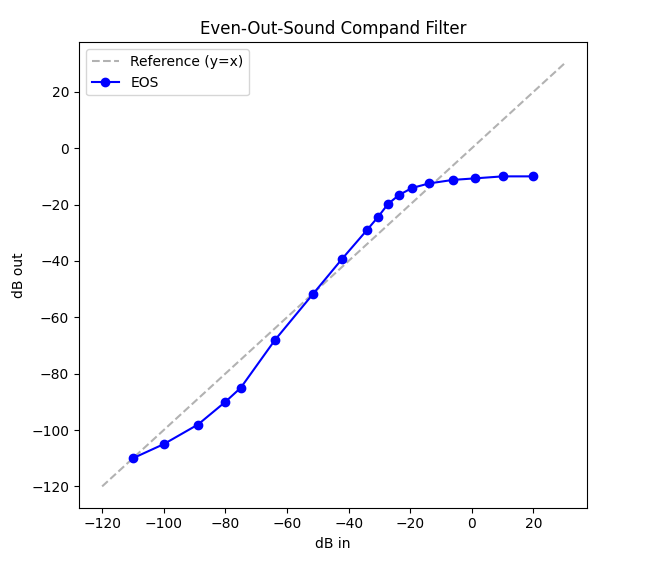
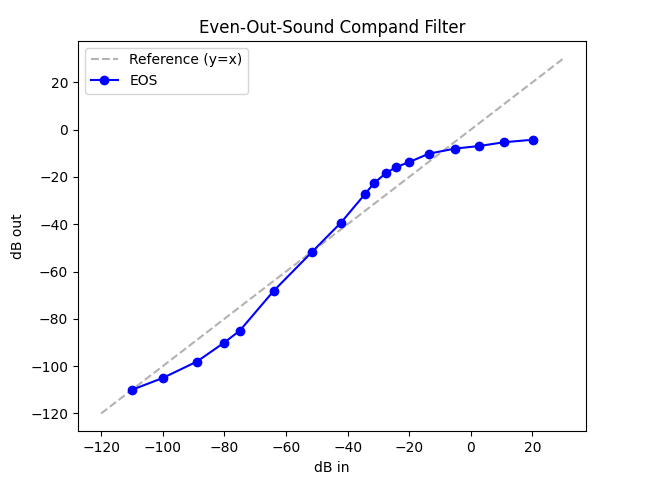
Tweaked EOS filter and updated files

diff --git a/scripts/eos-filter-tweaker/eos-filter-tweaker.py b/scripts/eos-filter-tweaker/eos-filter-tweaker.py
@@ -1,0 +1,248 @@
+import re
+import tkinter as tk
+from tkinter import ttk
+import matplotlib
+
+matplotlib.use("TkAgg")
+
+import numpy as np
+import matplotlib.pyplot as plt
+from matplotlib.backends.backend_tkagg import FigureCanvasTkAgg
+
+# --------------------------------------------------------------------
+# 1) Original compand filter string:
+# --------------------------------------------------------------------
+# compand_filter_original = (
+#     'compand='
+#     'attacks=0:'
+#     'decays=0.3:'
+#     'soft-knee=6:'
+#     'points='
+#     '-110/-110|'
+#     '-100/-105|'
+#     '-90/-95|'
+#     '-80/-90|'
+#     '-75/-85|'
+#     '-70/-65|'
+#     '-60/-55|'
+#     '-50/-40|'
+#     '-45/-35|'
+#     '-35/-28|'
+#     '-30/-24|'
+#     '-27/-16|'
+#     '-20/-14|'
+#     '-10/-12|'
+#     '-5/-10|'
+#     '0/-10|'
+#     '10/-10|'
+#     '20/-10'
+#     ':gain=4'
+# )
+compand_filter_original = (
+    'compand=attacks=0:decays=0.3:soft-knee=6:points=-110.00/-110.00|-100.00/-105.00|-88.88/-98.04|-80.00/-90.00|-75.00/-85.00|-63.89/-68.04|-51.56/-51.73|-42.14/-39.32|-34.35/-27.25|-31.43/-22.64|-27.54/-18.38|-24.29/-15.90|-20.07/-13.77|-13.91/-12.51|-6.12/-11.25|1.02/-10.71|10.00/-10.00|20.00/-10.00:gain=0'
+)
+
+
+# --------------------------------------------------------------------
+# 2) Parse the string to get the points (dB_in, dB_out).
+#    We'll store them as a list of (x, y).
+# --------------------------------------------------------------------
+def parse_compand_filter(compand_str):
+    """
+    Extract the 'points=' portion from the compand string and return a list of (x, y) floats.
+    """
+    # Example: "points=-110/-110|-100/-105|...:gain=4"
+    # We'll find the substring that starts with "points=" and goes until the next ':' or end of string
+    points_pattern = r'points=([^:]+)'  # capture everything after 'points=' until next ':'
+    match = re.search(points_pattern, compand_str)
+    if not match:
+        return []
+
+    points_str = match.group(1)
+    # points_str looks like: "-110/-110|-100/-105|-90/-95|..."
+
+    # Now split by '|'
+    pairs = points_str.split('|')
+    xy = []
+    for pair in pairs:
+        if '/' in pair:
+            x_str, y_str = pair.split('/')
+            try:
+                x_val = float(x_str)
+                y_val = float(y_str)
+                xy.append((x_val, y_val))
+            except ValueError:
+                pass
+    return xy
+
+
+# --------------------------------------------------------------------
+# 3) Rebuild the compand string from a list of (x, y).
+#    We preserve the 'attacks=0:decays=0.3:soft-knee=6' etc. from the original,
+#    but change the "points=..." section.
+# --------------------------------------------------------------------
+def rebuild_compand_filter(xy_points, original_str):
+    """
+    Rebuild the compand filter string, replacing only the "points=" section
+    with updated x/y pairs from xy_points.
+    """
+    # We'll keep everything up to 'points=' the same,
+    # and everything after the original 'points=...some...:???' also the same.
+    # But we'll rebuild the actual points portion from xy_points.
+
+    # 1) Extract prefix (everything before 'points=')
+    prefix_pattern = r'(.*points=)'
+    prefix_match = re.search(prefix_pattern, original_str)
+    if prefix_match:
+        prefix = prefix_match.group(1)
+    else:
+        prefix = ""
+
+    # 2) Extract suffix (everything after the points list)
+    #    That is, find the substring starting from the first ':'
+    #    AFTER the "points=..."
+    #    A quick trick is to find 'points=' plus the actual pairs, then see what's left.
+    points_pattern = r'points=([^:]+)(.*)'
+    points_match = re.search(points_pattern, original_str)
+    if points_match:
+        # The second group starts with the next ':' (like ":gain=4")
+        suffix = points_match.group(2)
+    else:
+        suffix = ""
+
+    # 3) Build new points string
+    #    Format each pair as "x/y", then join with '|'
+    new_points_str = "|".join(f"{x:.2f}/{y:.2f}" for x, y in xy_points)
+
+    # 4) Combine everything
+    new_compand = f"{prefix}{new_points_str}{suffix}"
+    return new_compand
+
+
+# --------------------------------------------------------------------
+# 4) A small helper to find the index of the closest point to a given (mouse) x,y
+# --------------------------------------------------------------------
+def find_closest_point(xy_points, x_click, y_click):
+    """
+    Return the index of the point in xy_points that is closest to (x_click, y_click).
+    """
+    dists = [(x - x_click) ** 2 + (y - y_click) ** 2 for x, y in xy_points]
+    min_idx = np.argmin(dists)
+    return min_idx
+
+
+# --------------------------------------------------------------------
+# 5) GUI / Plot / Interaction
+# --------------------------------------------------------------------
+class CompandGUI(tk.Tk):
+    def __init__(self, compand_str):
+        super().__init__()
+        self.title("Compand Filter Editor")
+
+        # Parse initial points
+        self.xy_points = parse_compand_filter(compand_str)
+        self.original_compand = compand_str
+
+        # For dragging
+        self.dragging_point_idx = None
+
+        # Create figure and axis
+        self.fig, self.ax = plt.subplots(figsize=(6, 4), dpi=100)
+        self.ax.set_title("Even-Out-Sound Compand Filter")
+        self.ax.set_xlabel("dB in")
+        self.ax.set_ylabel("dB out")
+
+        # Plot a simple y=x line as "linear" reference in the background
+        # (Feel free to replace with your own reference if needed)
+        x_vals = np.linspace(min(x for x, _ in self.xy_points) - 10,
+                             max(x for x, _ in self.xy_points) + 10, 200)
+        self.ax.plot(x_vals, x_vals, 'k--', alpha=0.3, label="Reference (y=x)")
+
+        # Plot the compand curve
+        self.line, = self.ax.plot(
+            [p[0] for p in self.xy_points],
+            [p[1] for p in self.xy_points],
+            'bo-', label="EOS"
+        )
+
+        self.ax.legend(loc="best")
+        self.canvas = FigureCanvasTkAgg(self.fig, master=self)
+        self.canvas.draw()
+        self.canvas.get_tk_widget().pack(side=tk.TOP, fill=tk.BOTH, expand=1)
+
+        # Bind matplotlib events
+        self.cid_press = self.canvas.mpl_connect('button_press_event', self.on_click)
+        self.cid_release = self.canvas.mpl_connect('button_release_event', self.on_release)
+        self.cid_motion = self.canvas.mpl_connect('motion_notify_event', self.on_motion)
+
+        # Text box to display the updated compand filter
+        self.text_var = tk.StringVar()
+        self.text_var.set(self.original_compand)
+
+        # Use a ttk.Entry or a scrolled Text for display (here we use just a read-only text)
+        self.frame_bottom = ttk.Frame(self)
+        self.frame_bottom.pack(side=tk.BOTTOM, fill=tk.X)
+        ttk.Label(self.frame_bottom, text="Updated Compand Filter:").pack(anchor=tk.W, pady=2)
+
+        self.text_box = tk.Text(self.frame_bottom, height=3, wrap=tk.NONE)
+        self.text_box.pack(fill=tk.X, padx=5)
+        # Insert initial value
+        self.text_box.insert("1.0", self.original_compand)
+        # Make it read-only by disabling 'insert' and 'delete'
+        self.text_box.configure(state="disabled")
+
+    def on_click(self, event):
+        """When mouse is clicked, check if it's close to a point. If so, set up dragging."""
+        if event.inaxes != self.ax:
+            return
+        x_click = event.xdata
+        y_click = event.ydata
+        self.dragging_point_idx = find_closest_point(self.xy_points, x_click, y_click)
+
+    def on_release(self, event):
+        """When mouse is released, finalize dragging."""
+        if event.inaxes != self.ax:
+            return
+        self.dragging_point_idx = None
+
+    def on_motion(self, event):
+        """When mouse moves and we are dragging a point, update that point and redraw."""
+        if self.dragging_point_idx is None:
+            return
+        if event.inaxes != self.ax:
+            return
+
+        x_new = event.xdata
+        y_new = event.ydata
+        if x_new is None or y_new is None:
+            return
+
+        # Update the point's coordinates
+        self.xy_points[self.dragging_point_idx] = (x_new, y_new)
+
+        # Redraw the line
+        self.line.set_xdata([p[0] for p in self.xy_points])
+        self.line.set_ydata([p[1] for p in self.xy_points])
+
+        self.ax.relim()
+        self.ax.autoscale_view()
+        self.canvas.draw()
+
+        # Rebuild and update compand string
+        new_compand_str = rebuild_compand_filter(self.xy_points, self.original_compand)
+        self.update_compand_textbox(new_compand_str)
+
+    def update_compand_textbox(self, new_str):
+        """Updates the text box with the new compand string."""
+        self.text_box.configure(state="normal")
+        self.text_box.delete("1.0", tk.END)
+        self.text_box.insert("1.0", new_str)
+        self.text_box.configure(state="disabled")
+
+
+# --------------------------------------------------------------------
+# 6) Main
+# --------------------------------------------------------------------
+if __name__ == "__main__":
+    app = CompandGUI(compand_filter_original)
+    app.mainloop()

diff --git a/scripts/audio.py b/scripts/audio.py
@@ -144,12 +144,12 @@ def get_pan_filter(source_channels, layout):
         # Similar logic as before: boost FC, mix some FC into FL/FR, reduce surrounds.
         return (
             'pan=5.1|'
-            'FL=0.4*FL|'
-            'FR=0.4*FR|'
+            'FL=0.3*FL|'
+            'FR=0.3*FR|'
             'FC=0.7*FC|'
-            'LFE=0.3*LFE|'
-            'BL=0.3*BL|'
-            'BR=0.3*BR'
+            'LFE=0.2*LFE|'
+            'BL=0.2*BL|'
+            'BR=0.2*BR'
         )
 
     elif layout == '7.1':
@@ -158,14 +158,14 @@ def get_pan_filter(source_channels, layout):
         # keep LFE as is, and reduce the volume of surrounds and sides.
         return (
             'pan=7.1|'
-            'FL=0.4*FL|'
-            'FR=0.4*FR|'
+            'FL=0.3*FL|'
+            'FR=0.3*FR|'
             'FC=0.7*FC|'
-            'LFE=0.3*LFE|'
-            'BL=0.3*BL|'
-            'BR=0.3*BR|'
-            'SL=0.3*SL|'
-            'SR=0.3*SR'
+            'LFE=0.2*LFE|'
+            'BL=0.2*BL|'
+            'BR=0.2*BR|'
+            'SL=0.2*SL|'
+            'SR=0.2*SR'
         )
 
     elif layout == 'Stereo':
@@ -177,21 +177,21 @@ def get_pan_filter(source_channels, layout):
         if source_channels > 2:
             return (
                 'pan=stereo|'
-                'FL=0.3*FL+0.6*FC+0.2*BL+0.2*SL+0.2*LFE|'
-                'FR=0.3*FR+0.6*FC+0.2*BR+0.2*SR+0.2*LFE'
+                'FL=0.3*FL+0.7*FC+0.2*BL+0.2*SL+0.2*LFE|'
+                'FR=0.3*FR+0.7*FC+0.2*BR+0.2*SR+0.2*LFE'
             )
         else:
             return (
                 'pan=stereo|'
-                'FL=0.6*FL|'
-                'FR=0.6*FR'
+                'FL=0.7*FL|'
+                'FR=0.7*FR'
             )
 
     elif layout == 'Mono':
         if source_channels > 2:
             return 'pan=mono|FC=0.3*FL+0.3*FR+0.6*FC'
         else:
-            return 'pan=mono|FC=0.6*FL+0.6*FR'
+            return 'pan=mono|FC=0.7*FL+0.7*FR'
 
     else:
         return None
@@ -307,7 +307,7 @@ def encode_single_preference(file, index, debug, languages, track_names, transfo
     # Apply transformations
     if transformation == 'EOS':
         compand_filter = (
-            'compand=attacks=0:decays=0.3:soft-knee=6:points=-110.00/-110.00|-100.00/-105.00|-88.88/-98.04|-80.00/-90.00|-75.00/-85.00|-63.89/-68.04|-51.56/-51.73|-42.14/-39.32|-34.35/-27.25|-31.43/-22.64|-27.54/-18.38|-24.29/-15.90|-20.07/-13.77|-13.91/-12.51|-6.12/-11.25|1.02/-10.71|10.00/-10.00|20.00/-10.00:gain=0'
+            'compand=attacks=0:decays=0.3:soft-knee=6:points=-110.00/-110.00|-100.00/-105.00|-88.88/-98.04|-80.00/-90.00|-75.00/-85.00|-63.89/-68.04|-51.56/-51.73|-42.14/-39.32|-34.35/-27.25|-31.43/-22.64|-27.54/-18.38|-24.29/-15.90|-20.07/-13.77|-13.58/-10.18|-5.15/-8.04|2.64/-6.96|10.76/-5.36|20.17/-4.29:gain=0'
         )
 
         pan_filter = get_pan_filter(source_channels, chosen_layout)

diff --git a/scripts/mkv.py b/scripts/mkv.py
@@ -717,7 +717,7 @@ def convert_to_srt_process(logger, debug, max_worker_threads, input_files, dirpa
     all_errored_ocr_count = len([item for list in all_errored_ocr for item in list])
     if all_errored_ocr_count:
         custom_print(logger, f"{GREY}[SUBTITLES]{RESET} {all_errored_ocr_count} "
-                             f"{print_multi_or_single(all_errored_ocr_count, 'subtitle')} failed to be converted to SRT.")
+                             f"{print_multi_or_single(all_errored_ocr_count, 'subtitle')} failed to be converted.")
     return (all_ready_subtitle_tracks, subtitle_tracks_to_be_processed,
             all_missing_subs_langs, all_errored_ocr, main_audio_track_langs_list)
 

diff --git a/README.md b/README.md
@@ -78,13 +78,19 @@ Tip: If you want to continuously monitor the progress of mkv-auto-service you ca
 
 ````bash
 # If you are logged in to the machine that is running the mkv-auto-service
-# Press CTRL+C to exit the view
-alias mkv-auto-logs='docker attach --sig-proxy=false mkv-auto-service"'
+# The 'mkvslr' alias (mkv-auto-service-logs-realtime) will display the unbuffered console stream 
+# (including the animated spinner etc.), but it cannot show history back in time.
+# Press CTRL+C repeatedly to exit the view
+alias mkvslr='docker attach --sig-proxy=false mkv-auto-service"'
+alias mkvsl='docker logs -f mkv-auto-service"'
 
 # If you want to check the progress, but you are on another machine. Replace "ubuntu-desktop"
 # with the machine/host that is running the mkv-auto-service container.
-mkv-auto-logs() {
+mkvslr() {
     ssh -t ubuntu-desktop 'docker attach --sig-proxy=false mkv-auto-service'
+}
+mkvsl() {
+    ssh -t ubuntu-desktop 'docker logs -f mkv-auto-service'
 }
 ````
 
